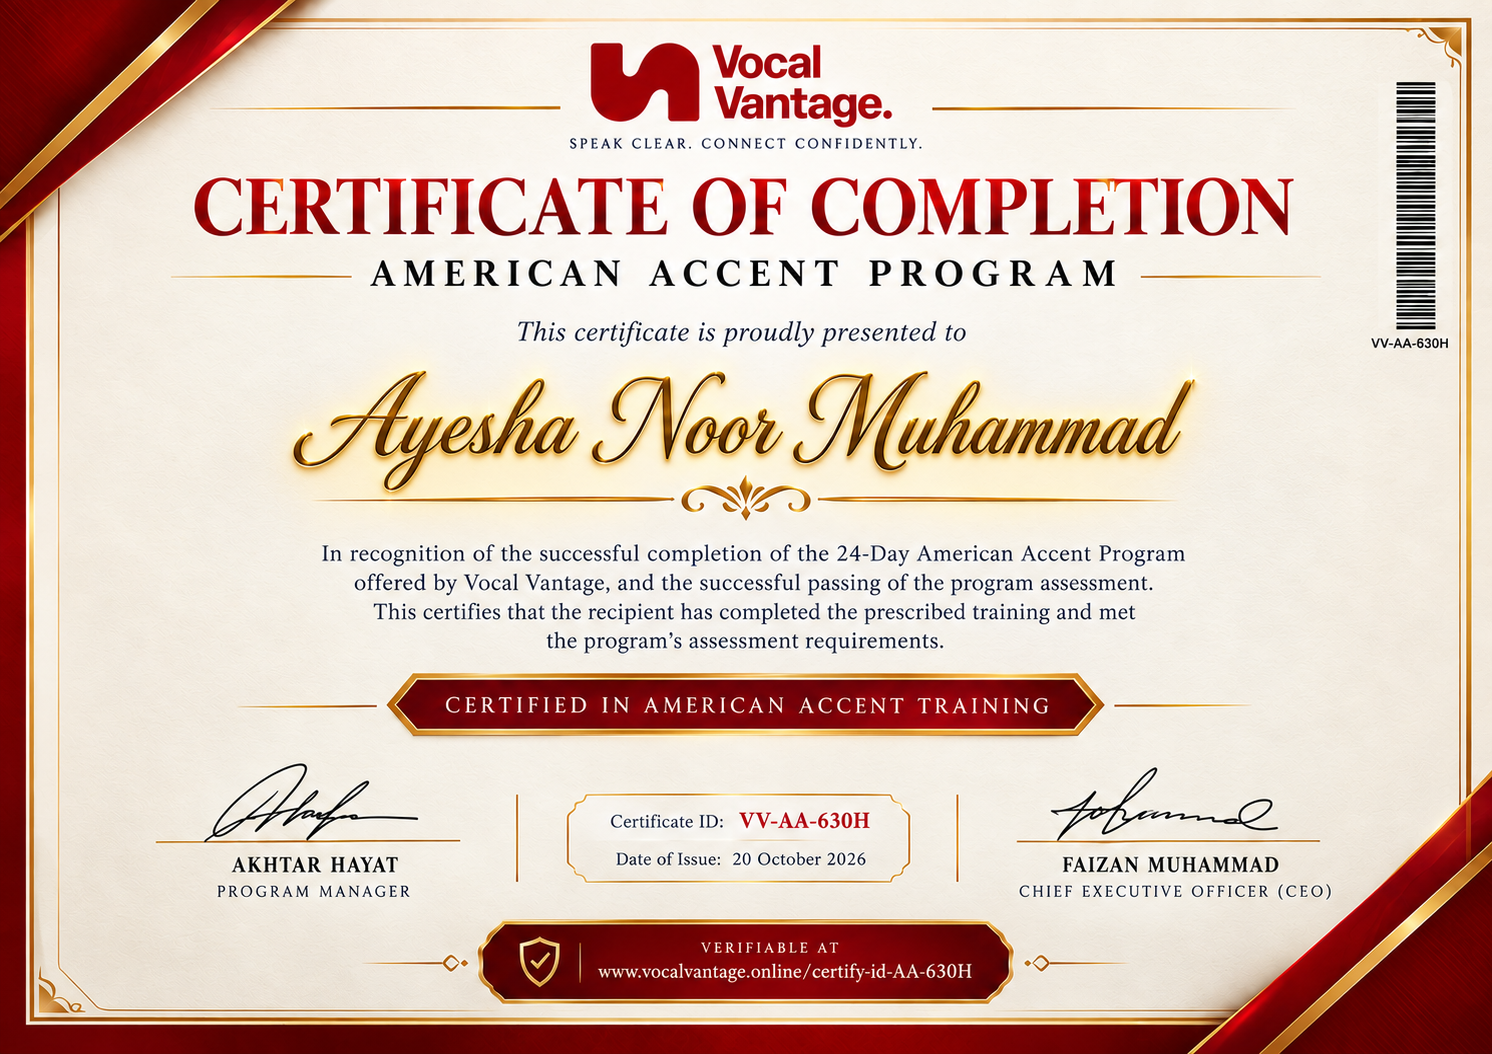
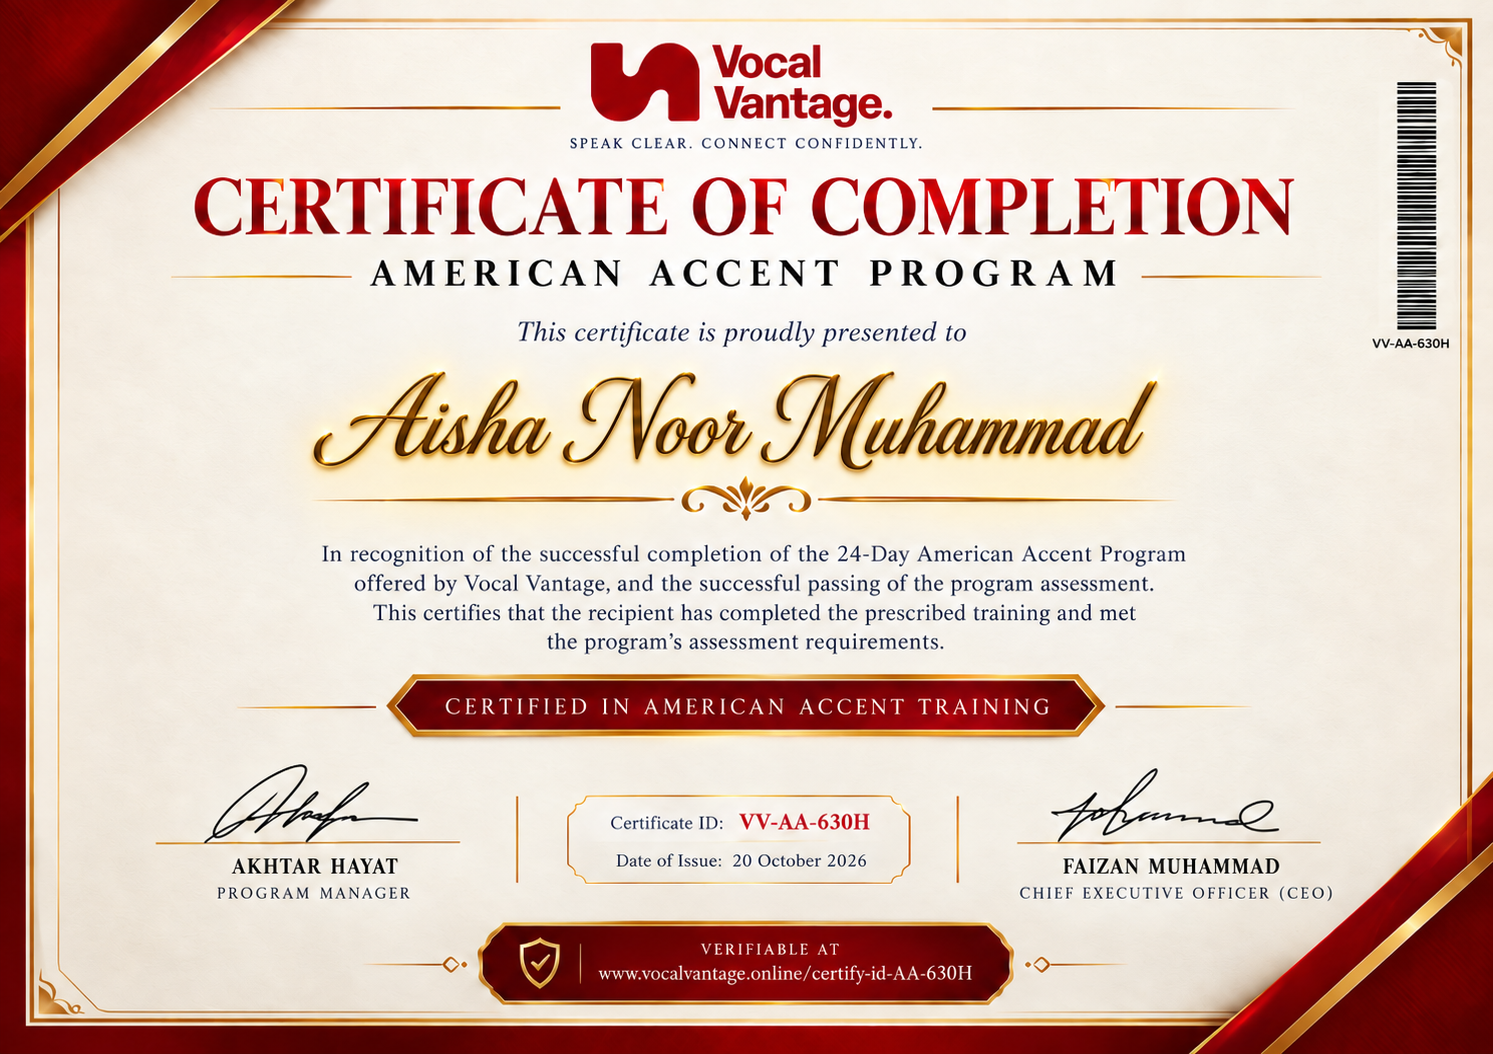
Add files via upload

diff --git a/src/data.ts b/src/data.ts
@@ -141,10 +141,10 @@ export const DEMO_STUDENT_BRITISH: StudentProfile = {
   previousAssignments: [],
 };
 
-export const DEFAULT_CERTIFICATE_AYESHA: CertificateRecord = {
+export const DEFAULT_CERTIFICATE_AISHA: CertificateRecord = {
   id: 'AA-630H',
   certificateNumber: 'VV-AA-630H',
-  studentName: 'Ayesha Noor Muhammad',
+  studentName: 'Aisha Noor Muhammad',
   courseTitle: '24-Day American Accent Program',
   completionDate: '20 October 2026',
   score: 97,
@@ -350,13 +350,15 @@ export const DEFAULT_CERTIFICATE_AYESHA: CertificateRecord = {
   ],
 };
 
+export const DEFAULT_CERTIFICATE_AYESHA = DEFAULT_CERTIFICATE_AISHA;
+
 export const CERTIFICATES_DATABASE: Record<string, CertificateRecord> = {
-  'AA-630H': DEFAULT_CERTIFICATE_AYESHA,
-  'aa-630h': DEFAULT_CERTIFICATE_AYESHA,
-  'VV-AA-630H': DEFAULT_CERTIFICATE_AYESHA,
-  'vv-aa-630h': DEFAULT_CERTIFICATE_AYESHA,
-  'AA630H': DEFAULT_CERTIFICATE_AYESHA,
-  'aa630h': DEFAULT_CERTIFICATE_AYESHA,
-  '630H': DEFAULT_CERTIFICATE_AYESHA,
-  '630h': DEFAULT_CERTIFICATE_AYESHA,
+  'AA-630H': DEFAULT_CERTIFICATE_AISHA,
+  'aa-630h': DEFAULT_CERTIFICATE_AISHA,
+  'VV-AA-630H': DEFAULT_CERTIFICATE_AISHA,
+  'vv-aa-630h': DEFAULT_CERTIFICATE_AISHA,
+  'AA630H': DEFAULT_CERTIFICATE_AISHA,
+  'aa630h': DEFAULT_CERTIFICATE_AISHA,
+  '630H': DEFAULT_CERTIFICATE_AISHA,
+  '630h': DEFAULT_CERTIFICATE_AISHA,
 };

diff --git a/src/components/CertificateVerificationPage.tsx b/src/components/CertificateVerificationPage.tsx
@@ -1,6 +1,6 @@
 import React, { useState, useEffect, useRef } from 'react';
 import { CertificateRecord } from '../types';
-import { DEFAULT_CERTIFICATE_AYESHA, CERTIFICATES_DATABASE, LOGO_URL } from '../data';
+import { DEFAULT_CERTIFICATE_AISHA, CERTIFICATES_DATABASE, LOGO_URL } from '../data';
 import {
   ShieldCheck,
   CheckCircle2,
@@ -41,7 +41,7 @@ export const CertificateVerificationPage: React.FC<CertificateVerificationPagePr
   const [certIdInput, setCertIdInput] = useState(initialCertificateId);
   const [currentCert, setCurrentCert] = useState<CertificateRecord>(() => {
     const clean = initialCertificateId.trim().toUpperCase();
-    return CERTIFICATES_DATABASE[clean] || DEFAULT_CERTIFICATE_AYESHA;
+    return CERTIFICATES_DATABASE[clean] || DEFAULT_CERTIFICATE_AISHA;
   });
 
   const [copiedLink, setCopiedLink] = useState(false);

diff --git a/server.ts b/server.ts
@@ -650,7 +650,7 @@ const CERTIFICATES_DATA: Record<string, any> = {
   'AA-630H': {
     id: 'AA-630H',
     certificateNumber: 'VV-AA-630H',
-    studentName: 'Ayesha Noor Muhammad',
+    studentName: 'Aisha Noor Muhammad',
     courseTitle: '24-Day American Accent Program',
     completionDate: '20 October 2026',
     score: 97,
@@ -668,7 +668,7 @@ const CERTIFICATES_DATA: Record<string, any> = {
   'VV-AA-630H': {
     id: 'AA-630H',
     certificateNumber: 'VV-AA-630H',
-    studentName: 'Ayesha Noor Muhammad',
+    studentName: 'Aisha Noor Muhammad',
     courseTitle: '24-Day American Accent Program',
     completionDate: '20 October 2026',
     score: 97,
